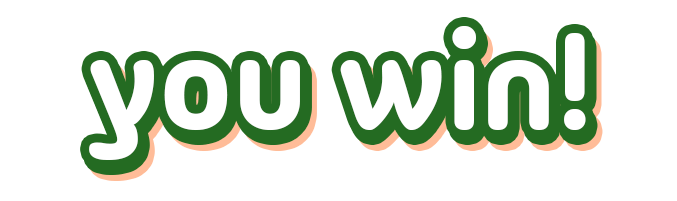
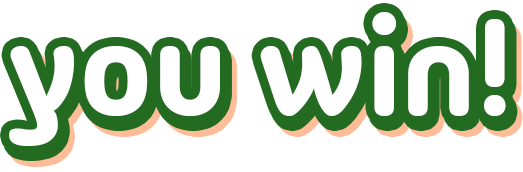
asset swaps

diff --git a/lib/widgets/game.dart b/lib/widgets/game.dart
@@ -498,42 +498,23 @@ class _GameState extends State<Game> {
                 margin: EdgeInsets.fromLTRB(
                     SizeConfig.safeBlockHorizontal * 25,
                     msg == "timer ran out!"
-                        ? 25.8 * SizeConfig.safeBlockVertical
-                        : 29 * SizeConfig.safeBlockVertical, // 28
+                        ? 22 * SizeConfig.safeBlockVertical
+                        : 24 * SizeConfig.safeBlockVertical,
                     SizeConfig.safeBlockHorizontal * 25,
                     0),
-                child: DefaultTextStyle(
-                  textAlign: TextAlign.center,
-                  style: TextStyle(
-                      fontFamily: "MadimiOne",
-                      height: 0.8,
-                      fontSize: msg == "timer ran out!"
-                          ? 5.8 * SizeConfig.fontSize
-                          : 6.2 * SizeConfig.fontSize,
-                      color: Colors.white,
-                      shadows: const [
-                        Shadow(
-                            offset: Offset(5.75, 6.25),
-                            color: Color.fromRGBO(255, 188, 152, 1)),
-                        Shadow(
-                            // bottomLeft
-                            offset: Offset(-3.5, -3.5),
-                            color: Color.fromRGBO(29, 103, 27, 1)),
-                        Shadow(
-                            // bottomRight
-                            offset: Offset(3.5, -3.5),
-                            color: Color.fromRGBO(29, 103, 27, 1)),
-                        Shadow(
-                            // topRight
-                            offset: Offset(3.5, 3.5),
-                            color: Color.fromRGBO(29, 103, 27, 1)),
-                        Shadow(
-                            // topLeft
-                            offset: Offset(-3.5, 3.5),
-                            color: Color.fromRGBO(29, 103, 27, 1)),
-                      ]),
-                  child: Text(msg),
-                )),
+                child: SizedBox(
+                  width: 250,
+                  height: 90,
+                  child: Container(
+                    decoration: BoxDecoration(
+                      image: DecorationImage(
+                        image: msg == "timer ran out!" ? AssetImage("assets/timer-ran-out.png") : AssetImage("assets/you-win-text.png"),
+                        fit: BoxFit.fitWidth
+                      )
+                    ),
+                  ),
+                )
+                ),
           ),
         ],
       ),
